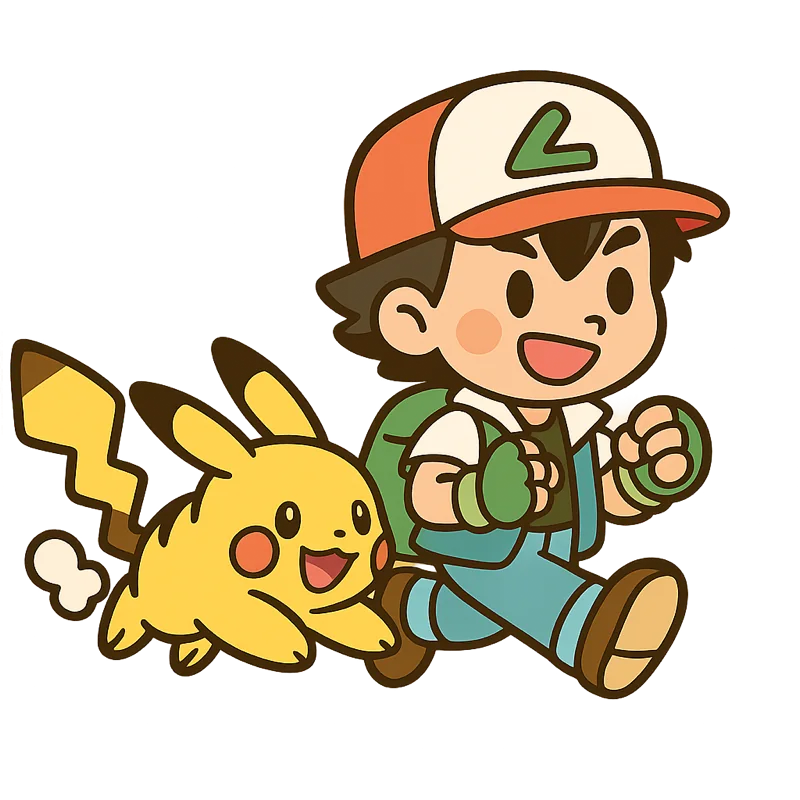
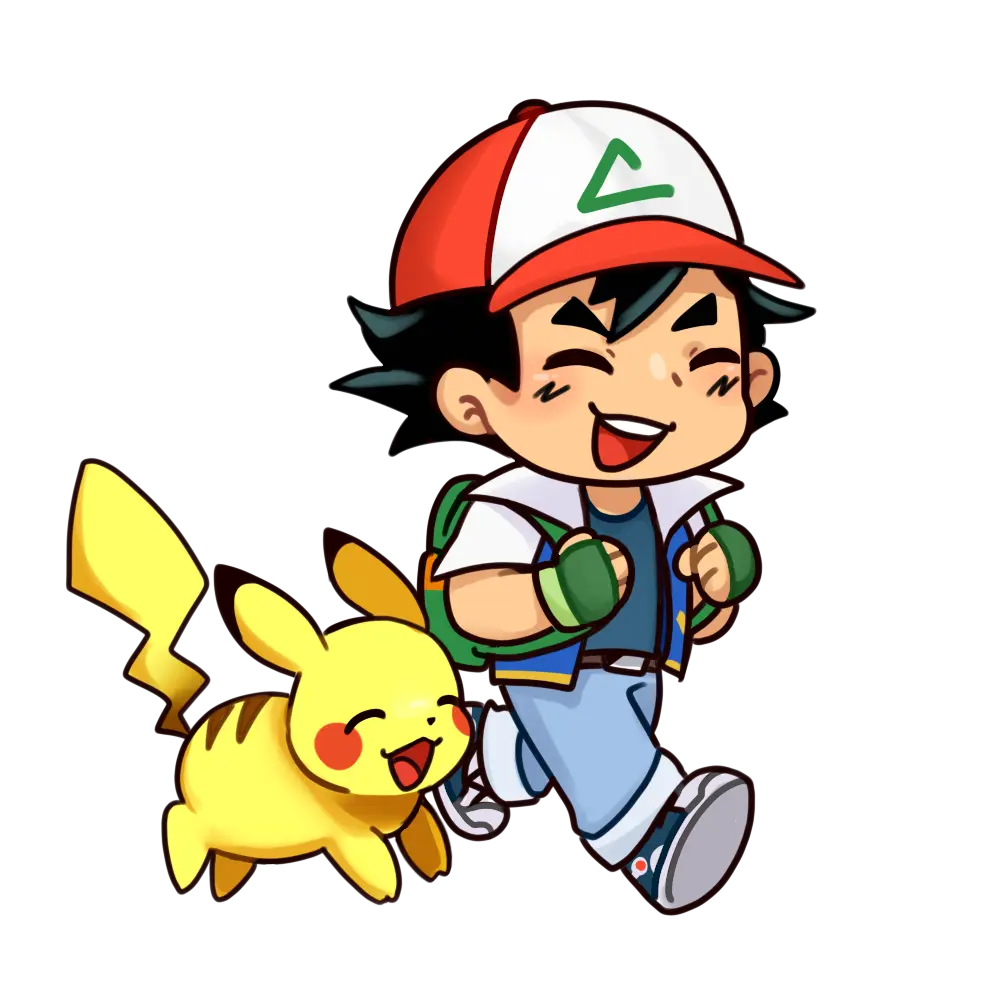
feat: Replacing shitty hero AI art with my first collab 🫶🏻

diff --git a/src/components/GithubContributors/Contributors.tsx b/src/components/GithubContributors/Contributors.tsx
@@ -6,6 +6,7 @@ import { Button } from '@/components/ui/button';
 import Image from 'next/image';
 import { Contributor } from '@/app/api/contributors/route';
 import { Slot } from '@radix-ui/react-slot';
+import { CONTRIBUTORS } from '@/common/constants';
 
 async function getContributors(): Promise<Contributor[]> {
   const res = await fetch(
@@ -20,8 +21,9 @@ async function getContributors(): Promise<Contributor[]> {
   return res.json();
 }
 
-export default async function GithubContributors() {
-  const contributors = await getContributors();
+export default async function Contributors() {
+  const githubContributors = await getContributors();
+  const contributors = [...githubContributors, ...CONTRIBUTORS];
 
   if (!contributors) {
     return null;
@@ -32,14 +34,14 @@ export default async function GithubContributors() {
       <CardHeader>
         <CardTitle className="flex items-center gap-2">
           <Users className="h-5 w-5 text-blue-500" />
-          GitHub Contributors
+          Contributors
           <Badge className="bg-blue-100 text-blue-800 ml-2">
             {contributors.length} contributors
           </Badge>
         </CardTitle>
         <p className="text-gray-600">
-          Amazing developers who have contributed code, documentation, and
-          improvements to Pokemon Stats.
+          Amazing developers, artists and designers who have contributed code,
+          design, documentation, and improvements to Pokémon Stats.
         </p>
       </CardHeader>
       <CardContent>
@@ -73,9 +75,12 @@ export default async function GithubContributors() {
                     {contributor.login}
                   </div>
                   <div className="flex items-center gap-1 mt-1">
-                    <Code className="w-3 h-3 text-green-500" />
+                    {contributor.category ?? (
+                      <Code className="w-3 h-3 text-green-500" />
+                    )}
                     <span className="text-xs text-gray-500">
-                      {contributor.contributions} commits
+                      {contributor.custom_contribution ??
+                        `${contributor.contributions} commits`}
                     </span>
                   </div>
                 </div>

diff --git a/src/app/api/contributors/route.ts b/src/app/api/contributors/route.ts
@@ -1,28 +1,31 @@
 import { NextResponse } from 'next/server';
+import React from 'react';
 
 export const revalidate = 84600;
 
 export interface Contributor {
   login: string;
   id: number;
-  node_id: string;
+  node_id?: string;
   avatar_url: string;
-  gravatar_id: string;
-  url: string;
-  html_url: string;
-  followers_url: string;
-  following_url: string;
-  gists_url: string;
-  starred_url: string;
-  subscriptions_url: string;
-  organizations_url: string;
-  repos_url: string;
-  events_url: string;
-  received_events_url: string;
-  type: string;
-  user_view_type: string;
-  site_admin: boolean;
+  gravatar_id?: string;
+  url?: string;
+  html_url?: string;
+  followers_url?: string;
+  following_url?: string;
+  gists_url?: string;
+  starred_url?: string;
+  subscriptions_url?: string;
+  organizations_url?: string;
+  repos_url?: string;
+  events_url?: string;
+  received_events_url?: string;
+  type?: string;
+  user_view_type?: string;
+  site_admin?: boolean;
   contributions: number;
+  custom_contribution?: string;
+  category?: React.ReactNode;
 }
 
 export async function GET() {

diff --git a/src/components/Hero/Hero.tsx b/src/components/Hero/Hero.tsx
@@ -57,7 +57,7 @@ export default async function Hero() {
         </div>
       </div>
       {/* Illustration */}
-      <div className="flex justify-center relative">
+      <div className="flex flex-col items-center relative mb-8">
         {/* Main illustration */}
         <div className="relative transform hover:scale-105 transition-transform duration-300">
           <Image
@@ -70,10 +70,21 @@ export default async function Hero() {
             priority
           />
         </div>
+        <p className="text-gray-400 text-xs">
+          Illustration by{' '}
+          <a
+            href="https://www.tumblr.com/altarichiru"
+            className="underline"
+            target="_blank"
+            rel="noopener noreferrer"
+          >
+            Altarichiru
+          </a>
+        </p>
       </div>
       {/* Scroll indicator */}
       <a
-        href={'#main'}
+        href="#main"
         className="absolute bottom-2 left-1/2 transform -translate-x-1/2"
       >
         <div className="w-10 h-10 border-2 border-gray-400 rounded-full flex items-center justify-center animate-bounce">

diff --git a/src/app/thanks/page.tsx b/src/app/thanks/page.tsx
@@ -12,7 +12,7 @@ import { Button } from '@/components/ui/button';
 import { Badge } from '@/components/ui/badge';
 import Link from 'next/link';
 import CoffeeSupporters from '@/components/CoffeeSupporters/CoffeeSupporters';
-import GithubContributors from '@/components/GithubContributors/GithubContributors';
+import Contributors from '@/components/GithubContributors/Contributors';
 import { INSPIRATIONS, SITE_URL, TOOLS } from '@/common/constants';
 import { Metadata } from 'next';
 
@@ -126,7 +126,7 @@ export default function ThanksPage() {
           </p>
         </div>
         <CoffeeSupporters />
-        <GithubContributors />
+        <Contributors />
         {/* Inspirations Section */}
         <Card className="mb-12 shadow-xl border-0 bg-white/90 backdrop-blur-sm">
           <CardHeader>

diff --git a/src/common/constants/index.tsx b/src/common/constants/index.tsx
@@ -1,4 +1,6 @@
 import { Roadmap } from '@/types/roadmap.types';
+import { Contributor } from '@/app/api/contributors/route';
+import { BrushIcon } from 'lucide-react';
 
 export const ROADMAP: Roadmap[] = [
   {
@@ -213,5 +215,17 @@ export const TOOLS = [
     url: 'https://www.databuddy.cc/',
     category: 'Analytics',
     icon: '📊',
+  },
+];
+
+export const CONTRIBUTORS: Contributor[] = [
+  {
+    login: 'Altarichiru',
+    id: 202509172328,
+    avatar_url: '/hero-art-contributor.webp',
+    html_url: 'https://www.tumblr.com/altarichiru',
+    contributions: 0,
+    custom_contribution: 'Art & Illustration',
+    category: <BrushIcon className="size-3 text-green-500" />,
   },
 ];
